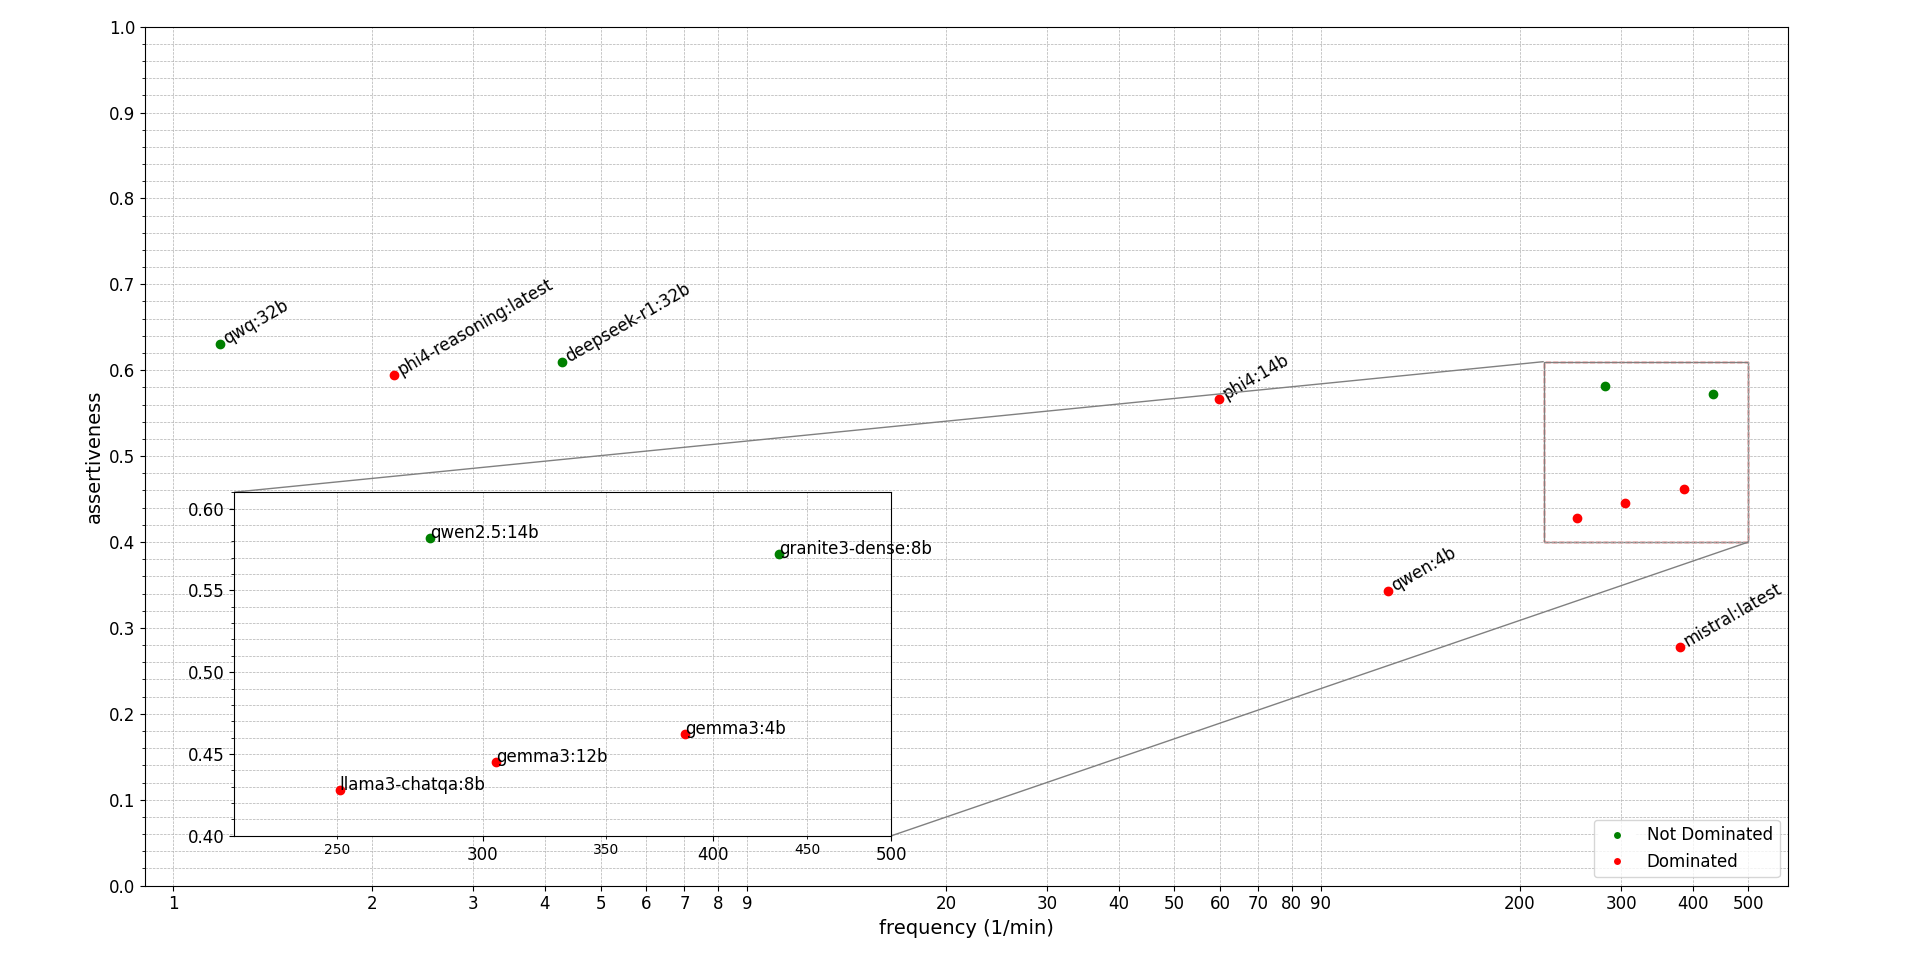
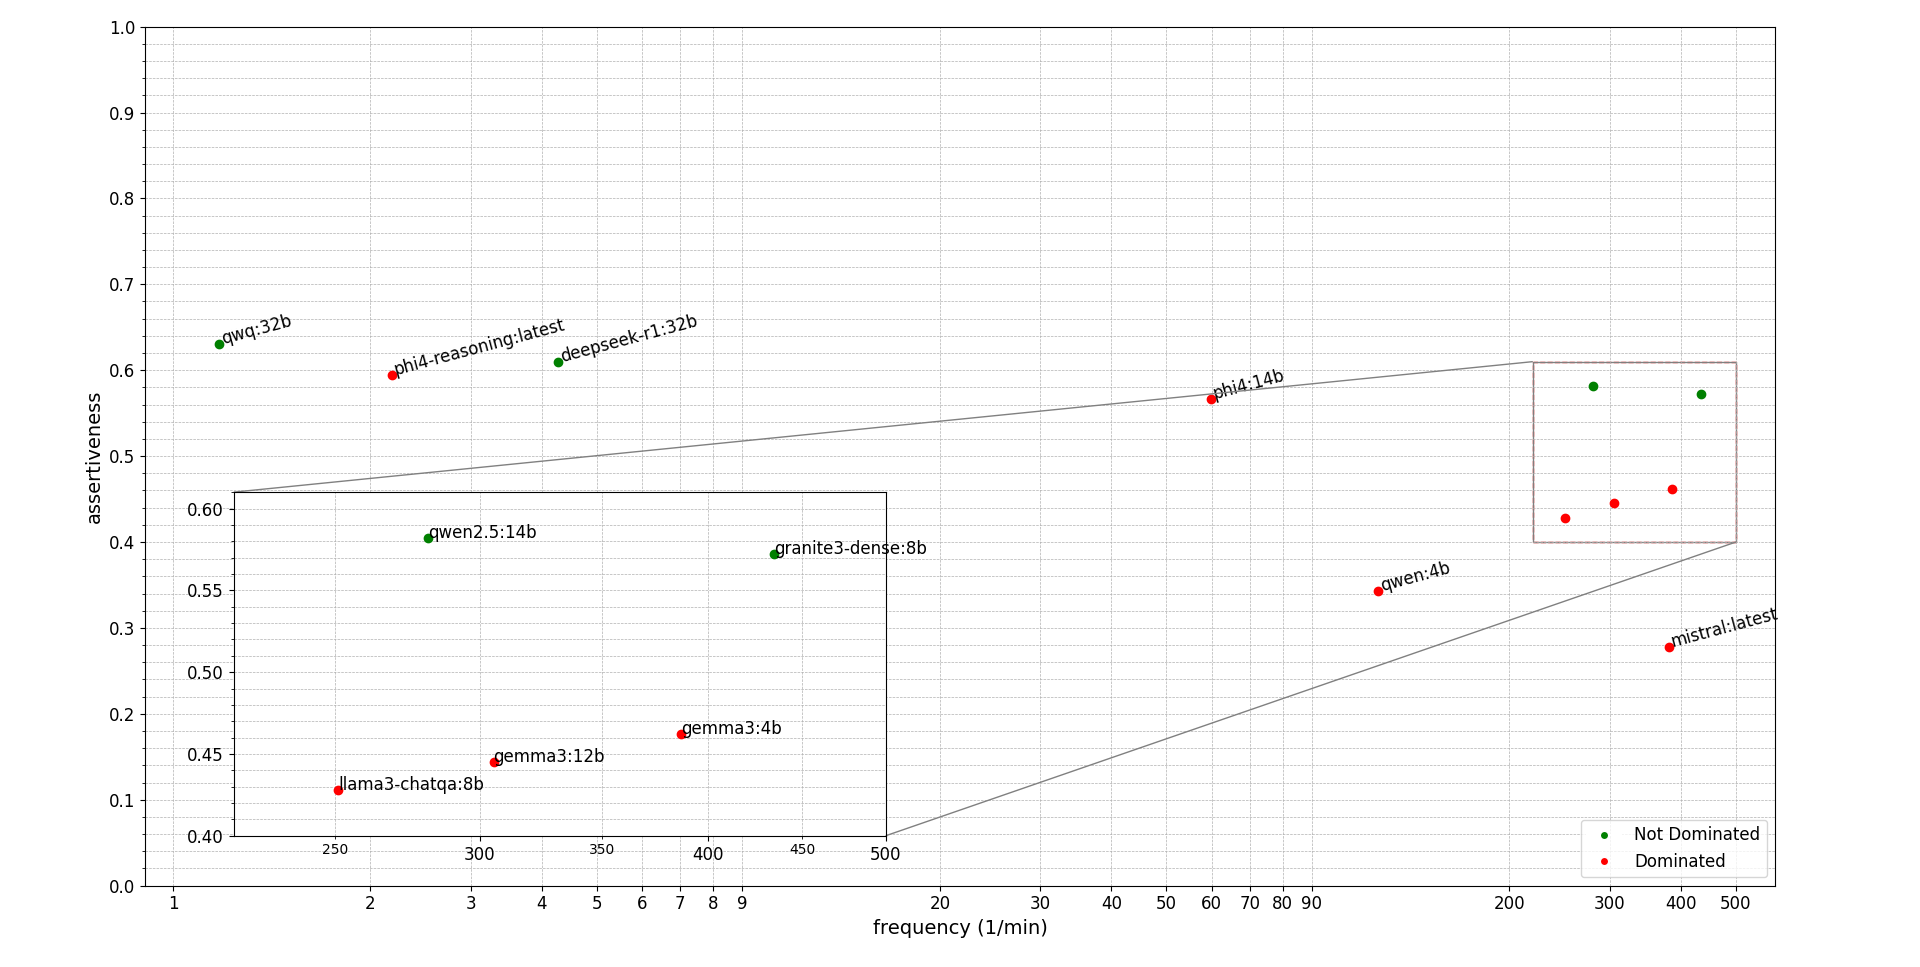
final changes for accumulated graph

diff --git a/graph_analysis/plot_line.py b/graph_analysis/plot_line.py
@@ -1,0 +1,61 @@
+import argparse
+import json
+import matplotlib.pyplot as plt
+import operator
+
+if __name__ == "__main__":
+    # Set up argument parser to accept the file path from the command line.
+    # This makes the script reusable for different data files.
+    parser = argparse.ArgumentParser(description="Plot a line graph from a JSON file with key-value pairs.")
+    parser.add_argument("--path", type=str, required=True, help="Path to the JSON file.")
+    args = parser.parse_args()
+    
+    # Open and load the JSON data from the specified file.
+    try:
+        with open(args.path, "r") as f:
+            dictionary = json.load(f)
+    except FileNotFoundError:
+        print(f"Error: The file at {args.path} was not found.")
+        exit()
+    except json.JSONDecodeError:
+        print(f"Error: The file at {args.path} is not a valid JSON file.")
+        exit()
+    
+    # The keys in the JSON are strings representing floating-point numbers.
+    # We need to convert them to actual floats for plotting.
+    # The values are the corresponding cumulative frequencies.
+    
+    # To ensure the line plot is drawn correctly, we must sort the data
+    # by the centrality value (the key).
+    
+    # Convert dictionary items to a list of tuples and sort by the key (item[0])
+    # after converting the key to a float.
+    sorted_items = sorted(dictionary.items(), key=lambda item: float(item[0]))
+    
+    # Unpack the sorted tuples into separate lists for keys and values.
+    keys = [float(item[0]) for item in sorted_items]
+    values = [item[1] for item in sorted_items]
+    
+    # --- Plotting the Data ---
+    plt.figure(figsize=(10, 6)) # Create a figure with a specific size for better readability.
+    
+    # Use plt.plot() for a line graph.
+    # 'keys' are the x-coordinates (centrality).
+    # 'values' are the y-coordinates (cumulative frequency).
+    plt.plot(keys, values, marker='.', linestyle='-')
+    
+    # Add labels to the axes and a title to the plot for clarity.
+    # Increased fontsize for better visibility.
+    plt.xlabel('Centrality', fontsize=14)
+    plt.ylabel('Cumulative Frequency', fontsize=14)
+
+    
+    # Increase the font size of the tick labels on both axes
+    plt.tick_params(axis='both', which='major', labelsize=12)
+    
+    # Add a grid for easier reading of values.
+    plt.grid(True)
+    
+    # Display the plot.
+    plt.show()
+

diff --git a/graph_analysis/accumulate.py b/graph_analysis/accumulate.py
@@ -1,0 +1,18 @@
+import json
+
+with open("centrality.json", "r") as f:
+    dictionary = json.load(f)
+
+# Convert keys to floats for numerical sorting
+to_sort = [[float(key), val] for key, val in dictionary.items()]
+to_sort.sort(key=lambda x: x[0])  # Sort by numerical key
+
+# Compute cumulative sum
+for i in range(1, len(to_sort)):
+    to_sort[i][1] += to_sort[i-1][1]
+
+# Convert back to dictionary with STRING keys
+result = {str(key): val for key, val in to_sort}
+
+with open("accumulated_centrality.json", "w") as f:
+    json.dump(result, f, indent=2)

diff --git a/comparison/dataset_2/plot_points_second_assertiveness.py b/comparison/dataset_2/plot_points_second_assertiveness.py
@@ -111,7 +111,7 @@ for i in range(len(x)):
 # Annotate points in main plot
 for freq, assertiv, label in zip(x, y, labels):
     if label:  # Skip already annotated
-        ax.annotate(label, (freq, assertiv), fontsize=12, rotation=30)
+        ax.annotate(label, (freq, assertiv), fontsize=12, rotation=15)
 
 # Add zoom rectangle
 rect = plt.Rectangle((zoom_x_min, zoom_y_min), 
